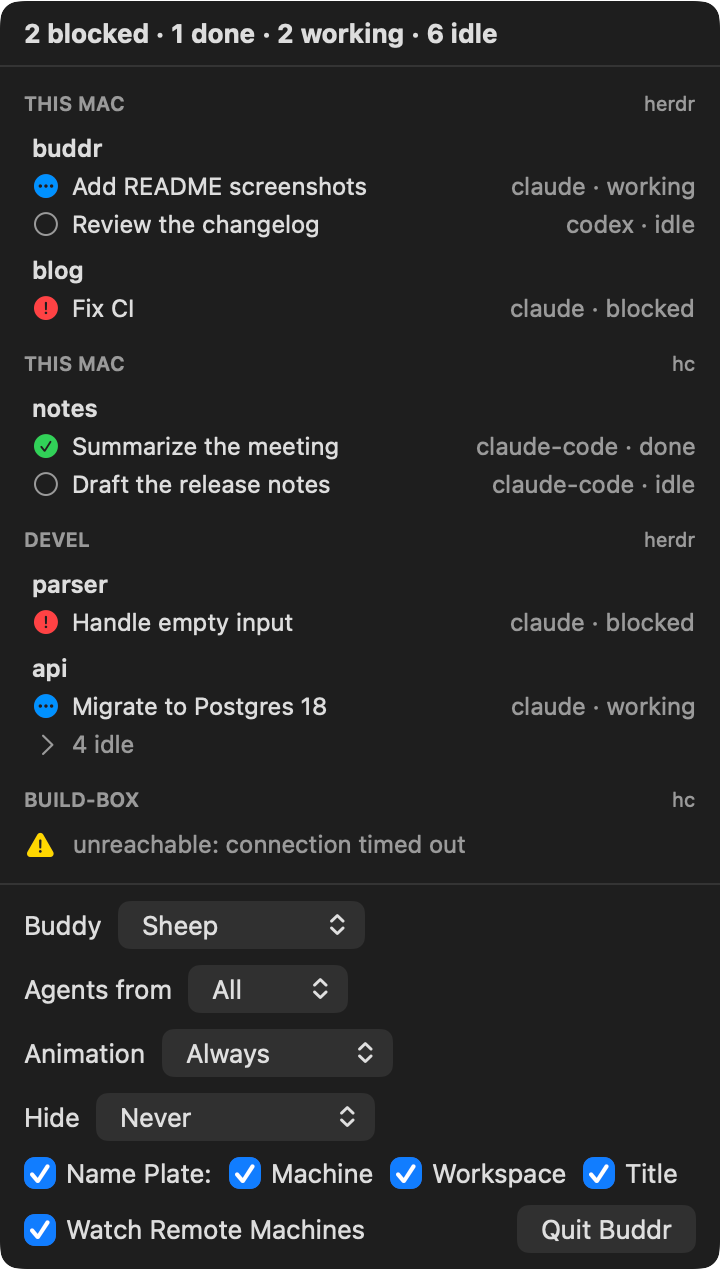
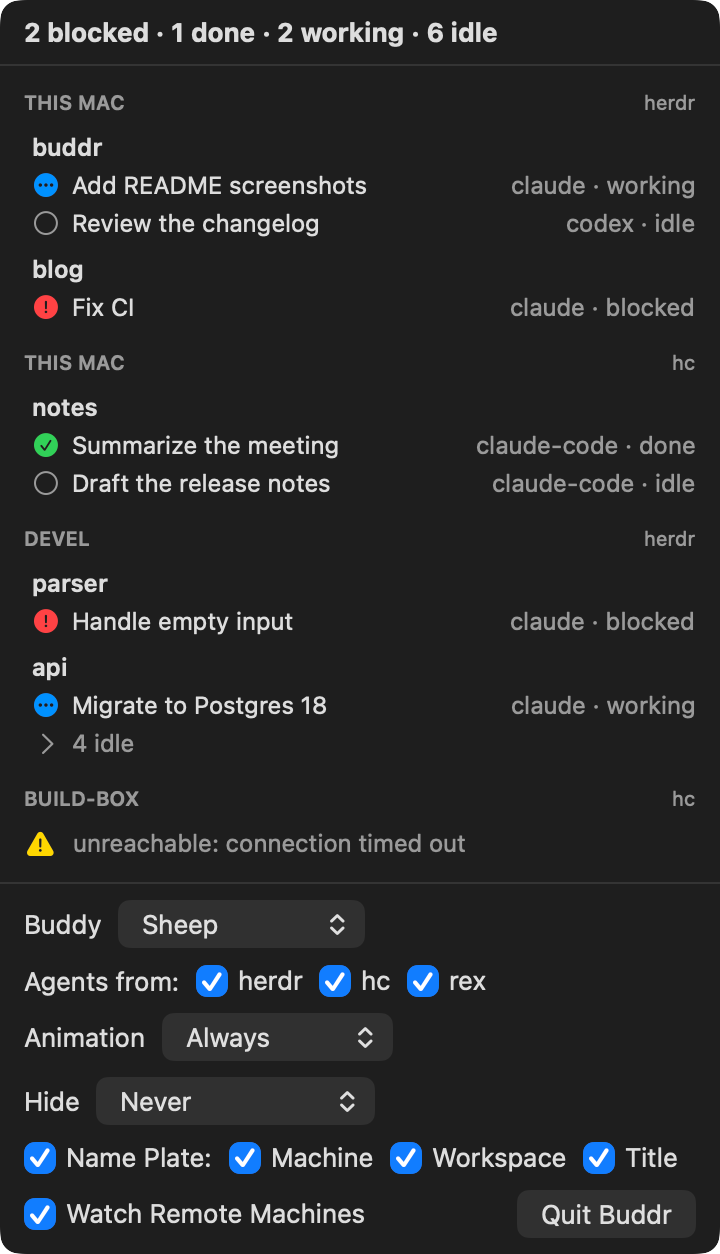
Choose the backends with checkboxes, any combination of them

diff --git a/Buddr/App/Preferences.swift b/Buddr/App/Preferences.swift
@@ -10,7 +10,7 @@ final class Preferences {
     private static let buddyChoiceKey = "buddy"
     private static let buddyTurnMinutesKey = "buddyTurnMinutes"
     private static let shownBuddyKey = "shownBuddy"
-    private static let backendChoiceKey = "agentBackends"
+    private static let backendsKey = "agentBackends"
     private static let watchesRemoteMachinesKey = "watchesRemoteMachines"
     private static let animationModeKey = "animationMode"
     private static let animationSecondsKey = "animationDurationSeconds"
@@ -61,12 +61,27 @@ final class Preferences {
         }
     }
 
-    /// Which backends the agents are read from. All by default.
-    var backendChoice: BackendChoice {
+    /// Which backends the agents are read from, all by default; never empty (`setBackend(_:read:)`).
+    private(set) var backends: Set<Backend> {
         didSet {
-            defaults.set(backendChoice.rawValue, forKey: Self.backendChoiceKey)
+            defaults.set(Backend.allCases.filter(backends.contains).map(\.rawValue), forKey: Self.backendsKey)
             onChange?()
         }
+    }
+
+    /// Reads agents from one backend or stops reading them. The last backend read can't be dropped
+    /// (`canStopReading(_:)`), so agents are always read from somewhere.
+    func setBackend(_ backend: Backend, read: Bool) {
+        if read {
+            backends.insert(backend)
+        } else if canStopReading(backend) {
+            backends.remove(backend)
+        }
+    }
+
+    /// Whether agents can stop being read from `backend`: not from the last one read.
+    func canStopReading(_ backend: Backend) -> Bool {
+        backends != [backend]
     }
 
     /// Whether agents on remote machines (herdr's saved machines, herdr-core's added ones) count, besides this Mac's.
@@ -160,8 +175,7 @@ final class Preferences {
         buddyTurnMinutes =
             Self.buddyTurnMinutesChoices.contains(turnMinutes) ? turnMinutes : Self.defaultBuddyTurnMinutes
         shownBuddy = defaults.string(forKey: Self.shownBuddyKey).flatMap { BuddyID(rawValue: $0) } ?? .sheep
-        backendChoice =
-            defaults.string(forKey: Self.backendChoiceKey).flatMap { BackendChoice(savedValue: $0) } ?? .all
+        backends = Self.savedBackends(in: defaults)
         watchesRemoteMachines = defaults.object(forKey: Self.watchesRemoteMachinesKey) as? Bool ?? true
         animationMode =
             defaults.string(forKey: Self.animationModeKey).flatMap { AnimationMode(rawValue: $0) } ?? .always
@@ -176,5 +190,14 @@ final class Preferences {
         // Without a saved part to show (none saved, or edited by hand), the plate shows all of them.
         namePlateFields = fields.isEmpty ? NamePlate.Field.all : fields
         showsNamePlate = defaults.object(forKey: Self.showsNamePlateKey) as? Bool ?? true
+    }
+
+    /// The backends saved as an array of their names. Before they were checkboxes, one choice was saved as a string:
+    /// a backend's name or `all` (`both` while there were only herdr and hc). Without a backend (none saved, or edited
+    /// by hand), all are read.
+    private static func savedBackends(in defaults: UserDefaults) -> Set<Backend> {
+        let names = defaults.stringArray(forKey: backendsKey) ?? defaults.string(forKey: backendsKey).map { [$0] } ?? []
+        let backends = Set(names.compactMap(Backend.init(rawValue:)))
+        return backends.isEmpty ? Backend.all : backends
     }
 }

diff --git a/BuddrTests/App/PreferencesTests.swift b/BuddrTests/App/PreferencesTests.swift
@@ -84,28 +84,60 @@ struct PreferencesTests {
     }
 
     @Test func readsAllBackendsByDefault() {
-        #expect(Preferences(defaults: defaults).backendChoice == .all)
+        #expect(Preferences(defaults: defaults).backends == [.herdr, .hc, .rex])
     }
 
-    @Test func savedBothReadsAsAllBackends() {
-        defaults.set("both", forKey: "agentBackends")
-        #expect(Preferences(defaults: defaults).backendChoice == .all)
-    }
-
-    @Test func backendChoiceIsSavedAndReported() {
+    @Test func backendsAreSavedAndReported() {
         let preferences = Preferences(defaults: defaults)
         var changes = 0
         preferences.onChange = { changes += 1 }
 
-        preferences.backendChoice = .hc
+        preferences.setBackend(.hc, read: false)
+        preferences.setBackend(.herdr, read: false)
 
-        #expect(changes == 1)
-        #expect(Preferences(defaults: defaults).backendChoice == .hc)
+        #expect(changes == 2)
+        #expect(preferences.backends == [.rex])
+        #expect(Preferences(defaults: defaults).backends == [.rex])
+
+        preferences.setBackend(.herdr, read: true)
+
+        #expect(changes == 3)
+        #expect(Preferences(defaults: defaults).backends == [.herdr, .rex])
+        #expect(defaults.stringArray(forKey: "agentBackends") == ["herdr", "rex"])
     }
 
-    @Test func invalidSavedBackendChoiceFallsBackToAll() {
-        defaults.set("everything", forKey: "agentBackends")
-        #expect(Preferences(defaults: defaults).backendChoice == .all)
+    @Test func theLastBackendCantBeDropped() {
+        let preferences = Preferences(defaults: defaults)
+        preferences.setBackend(.herdr, read: false)
+        #expect(preferences.canStopReading(.rex))
+        preferences.setBackend(.rex, read: false)
+        #expect(!preferences.canStopReading(.hc))
+        var changes = 0
+        preferences.onChange = { changes += 1 }
+
+        preferences.setBackend(.hc, read: false)
+
+        #expect(changes == 0)
+        #expect(preferences.backends == [.hc])
+    }
+
+    @Test(
+        arguments: [
+            ("herdr", [.herdr]), ("hc", [.hc]), ("rex", [.rex]), ("all", Backend.all), ("both", Backend.all),
+        ] as [(String, Set<Backend>)])
+    func backendChoiceSavedAsAStringIsRead(saved: String, backends: Set<Backend>) {
+        // Saved before the backends were checkboxes; `both` while there were only herdr and hc.
+        defaults.set(saved, forKey: "agentBackends")
+        #expect(Preferences(defaults: defaults).backends == backends)
+    }
+
+    @Test func unknownSavedBackendsAreIgnored() {
+        defaults.set(["rex", "everything"], forKey: "agentBackends")
+        #expect(Preferences(defaults: defaults).backends == [.rex])
+        defaults.set(["everything"], forKey: "agentBackends")
+        #expect(Preferences(defaults: defaults).backends == Backend.all)
+        defaults.set(42, forKey: "agentBackends")
+        #expect(Preferences(defaults: defaults).backends == Backend.all)
     }
 
     @Test func animatesAlwaysByDefault() {

diff --git a/scripts/measure.swift b/scripts/measure.swift
@@ -101,7 +101,7 @@ struct Settings: Codable, Equatable {
     var hideMode: String
     var hideMinutes: Int
     var watchesRemoteMachines: Bool
-    /// Missing in runs saved before Buddr read herdr-core; they read herdr only.
+    /// `herdr`, `hc+rex`, … or `all`. Missing in runs saved before Buddr read herdr-core; they read herdr only.
     var agentBackends: String?
 
     static func read() -> Settings {
@@ -115,7 +115,21 @@ struct Settings: Codable, Equatable {
             hideMode: choice("hideMode", ["never", "whenIdle", "unlessNeeded"], default: "never"),
             hideMinutes: choice("hideAfterMinutes", [1, 5, 15, 30], default: 5),
             watchesRemoteMachines: choice("watchesRemoteMachines", [false, true], default: true),
-            agentBackends: choice("agentBackends", ["herdr", "hc", "rex", "all", "both"], default: "all"))
+            agentBackends: backends(defaults?.object(forKey: "agentBackends")))
+    }
+
+    /// The backends checked in the menu, in its order, joined with `+`; `all` when all are, as runs saved before the
+    /// checkboxes (one choice saved as a string) recorded it.
+    private static func backends(_ saved: Any?) -> String {
+        let all = ["herdr", "hc", "rex"]
+        let names: [String] =
+            switch saved {
+            case let names as [String]: names
+            case let choice as String: [choice]
+            default: []
+            }
+        let checked = all.filter(names.contains)
+        return checked.isEmpty || checked == all ? "all" : checked.joined(separator: "+")
     }
 
     /// Names as in the JSON; a missing value is `–`.

diff --git a/Buddr/Menu/AgentListView.swift b/Buddr/Menu/AgentListView.swift
@@ -98,22 +98,28 @@ private struct BuddySettings: View {
     }
 }
 
-/// "Agents from: herdr / hc / rex / All".
+/// "Agents from:" and a checkbox per backend, named by its CLI as in the list's section headers. The last checked one
+/// can't be unchecked.
 private struct BackendSettings: View {
     @Bindable var preferences: Preferences
 
     var body: some View {
-        Picker("Agents from", selection: $preferences.backendChoice) {
-            ForEach(BackendChoice.allCases, id: \.self) { choice in
-                Text(Self.title(choice)).tag(choice)
+        HStack {
+            Text("Agents from:")
+            ForEach(Backend.allCases, id: \.self) { backend in
+                Toggle(backend.rawValue, isOn: reads(backend))
+                    .disabled(!preferences.canStopReading(backend))
             }
         }
-        .fixedSize()
+        .toggleStyle(.checkbox)
     }
 
-    /// A backend by the name of its CLI, as in the list's section headers.
-    private static func title(_ choice: BackendChoice) -> String {
-        choice == .all ? "All" : choice.rawValue
+    private func reads(_ backend: Backend) -> Binding<Bool> {
+        Binding {
+            preferences.backends.contains(backend)
+        } set: { read in
+            preferences.setBackend(backend, read: read)
+        }
     }
 }
 

diff --git a/BuddrTests/State/AgentSnapshotTests.swift b/BuddrTests/State/AgentSnapshotTests.swift
@@ -73,20 +73,6 @@ struct AgentSnapshotTests {
                     agents: [.stub(.idle)], failures: [missing], sources: [.herdr(.localSession("default"))]))
     }
 
-    @Test func backendChoices() {
-        #expect(BackendChoice.herdr.backends == [.herdr])
-        #expect(BackendChoice.hc.backends == [.hc])
-        #expect(BackendChoice.rex.backends == [.rex])
-        #expect(BackendChoice.all.backends == [.herdr, .hc, .rex])
-    }
-
-    @Test func savedBothMeansAllBackends() {
-        // Saved while there were only herdr and hc.
-        #expect(BackendChoice(savedValue: "both") == .all)
-        #expect(BackendChoice(savedValue: "rex") == .rex)
-        #expect(BackendChoice(savedValue: "everything") == nil)
-    }
-
     @Test func rexSources() {
         let local = AgentSource.rex(machine: nil)
         let studio = AgentSource.rex(machine: "studio")

diff --git a/Buddr/State/Backend.swift b/Buddr/State/Backend.swift
@@ -5,26 +5,6 @@ enum Backend: String, CaseIterable, Sendable {
     case hc
     /// Rex (superlogical.com/rex).
     case rex
-}
 
-/// Which backends the agents are read from, set in the menu bar.
-enum BackendChoice: String, CaseIterable, Sendable {
-    case herdr
-    case hc
-    case rex
-    case all
-
-    /// The choice saved as `value`; `both` was saved while there were only herdr and hc, and reads as `all`.
-    init?(savedValue value: String) {
-        self.init(rawValue: value == "both" ? "all" : value)
-    }
-
-    var backends: Set<Backend> {
-        switch self {
-        case .herdr: [.herdr]
-        case .hc: [.hc]
-        case .rex: [.rex]
-        case .all: Set(Backend.allCases)
-        }
-    }
+    static let all = Set(allCases)
 }

diff --git a/Buddr/App/AppDelegate.swift b/Buddr/App/AppDelegate.swift
@@ -87,7 +87,7 @@ final class AppDelegate: NSObject, NSApplicationDelegate {
         }
         let applyPreferences: @MainActor @Sendable () -> Void = {
             agentMonitor.configure(
-                backends: preferences.backendChoice.backends,
+                backends: preferences.backends,
                 watchesRemoteMachines: preferences.watchesRemoteMachines)
             animation.setAnimation(preferences.animationMode, for: .seconds(preferences.animationSeconds))
             hiding.setMode(preferences.hideMode, after: .seconds(preferences.hideMinutes * 60))

diff --git a/CLAUDE.md b/CLAUDE.md
@@ -82,7 +82,7 @@ Buddr/
                 deadlines), WebSocket (WebSocketProtocol: pure framing and upgrade; WebSocketConnection over a
                 UnixSocket), JSONDecoder.snakeCase (the decoder of every backend)
   State/      AgentStatus (+ priority aggregation), AgentSnapshot / AgentRecord / AgentSource (herdr, herdr-core, Rex) /
-              HerdrSource / SourceFailure, Backend + BackendChoice (which backends are read),
+              HerdrSource / SourceFailure, Backend (a tool whose agents are read),
               AgentOverview (pure: snapshot grouped by source and workspace for the menu bar list), AttentionTracker
               (pure: agents newly blocked / done, which one the plate names) + NamePlate (the plate's parts)
   Menu/       SnapshotStore (@Observable latest snapshot), AgentListView (content of the menu bar window)
@@ -139,7 +139,7 @@ CHANGELOG.md  one section per released version
   `BuddyPanel.clickTolerance` points (`onClick`); it pets the buddy (see below). After a drag (the button is released)
   the panel is moved back into the `visibleFrame` of its screen, so it can't be dragged out of sight. Menu bar: SwiftUI
   `MenuBarExtra` in `.window` style (a popover; the `.menu` style can't lay out columns or color the rows) with the
-  agent list, the settings ("Buddy" while there is more than one, "Agents from", "Animation" and "Hide" pop-ups,
+  agent list, the settings ("Buddy" while there is more than one, "Animation" and "Hide" pop-ups, "Agents from" and
   "Name Plate" checkboxes, "Watch Remote Machines") and "Quit Buddr". A segmented "Off | On Change | Always" control plus the duration doesn't fit the 360 pt
   width. A separate Settings window is not worth it until there are more settings (an `LSUIElement` app has to activate
   itself to show one).
@@ -179,9 +179,12 @@ CHANGELOG.md  one section per released version
   backend never delays the others, and shows the combined snapshot (`AgentSnapshot.combining`: the sources of this Mac first, then the
   machines). Sources are queried concurrently. A part that didn't change since its last poll is not combined again. Logs: category
   `agents` (the status, the number of agents and failures as they change).
-- The backends are chosen in the menu bar ("Agents from": herdr / hc / rex / All; `Preferences.backendChoice`, key
-  `agentBackends`: `herdr` / `hc` / `rex` / `all`, default `all`; `both`, saved before Rex, reads as `all`). A chosen
-  backend that is missing or not running is a failed source (⚠), also with All – the user asked for it.
+- The backends are chosen in the menu bar ("Agents from:" with a checkbox per backend, herdr / hc / rex, any
+  combination; `Preferences.backends`, key `agentBackends`, an array of the names, all by default). The last checked
+  one can't be unchecked (`Preferences.setBackend(_:read:)`, the checkbox is disabled), so agents are always read from
+  somewhere. Before the checkboxes, one choice was saved as a string (`herdr` / `hc` / `rex` / `all`, `both` before
+  Rex); it still reads, `all` and `both` as all. A chosen backend that is missing or not running is a failed source
+  (⚠) – the user asked for it.
 - Remote machines can be switched off in the menu bar (`Preferences.watchesRemoteMachines`, `UserDefaults` key
   `watchesRemoteMachines`, on by default) for every backend. `AgentMonitor.configure(backends:watchesRemoteMachines:)`
   applies both settings: it enables the kinds they ask for (`SourceKind.isEnabled(by:watchesRemoteMachines:)`,

diff --git a/README.md b/README.md
@@ -50,8 +50,8 @@ The sheep in the menu bar opens a list of all agents, grouped by machine and wor
 - **Buddy** – the corgi, the dino, the Earth, the rainbow cat, the sheep (the default), the snake or the UFO, or all of
   them taking turns every 15 to 60 minutes; a turn ends only while no agent needs you. The old buddy walks off the
   screen and the new one runs in.
-- **Agents from** – herdr, hc, rex or all of them (the default). A chosen one that isn't installed or running shows up
-  with a ⚠.
+- **Agents from** – herdr, hc and rex, any of them (all by default). A checked one that isn't installed or running
+  shows up with a ⚠.
 - **Animation** – always, only for a while after a change (5 s to 1 min), or off: a still picture of the state.
 - **Hide** – never (the default), when all agents are idle, or unless one needs you, after 1 to 30 minutes of it. The
   sheep walks off the screen and comes back as soon as that changes; "Show Sheep" in the list calls it back sooner.
